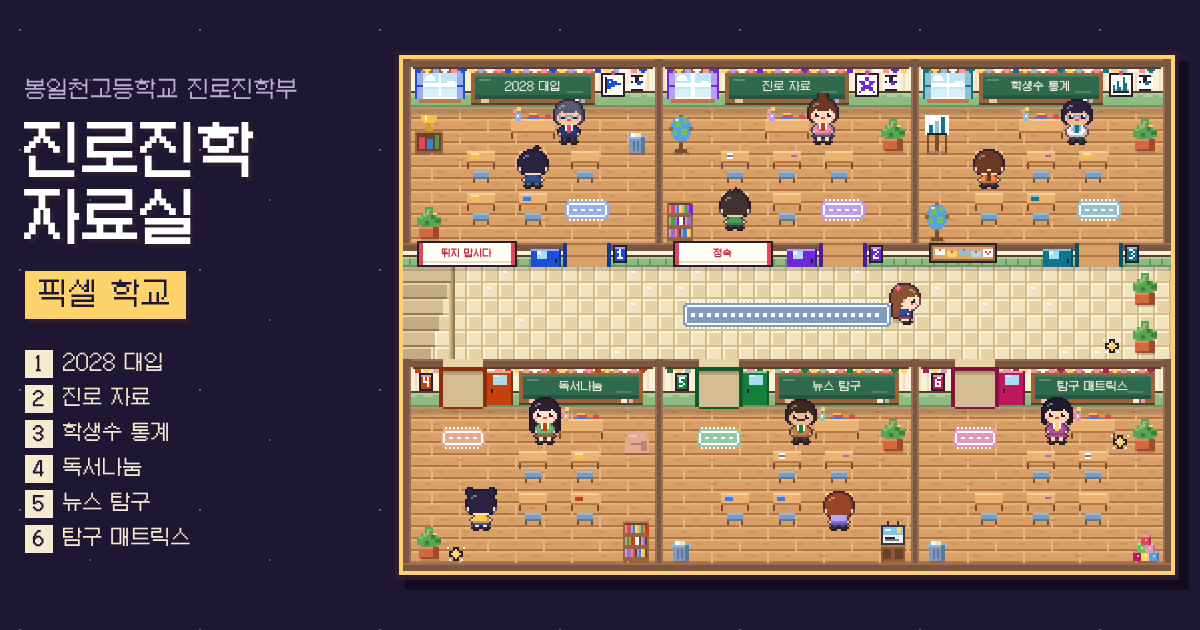
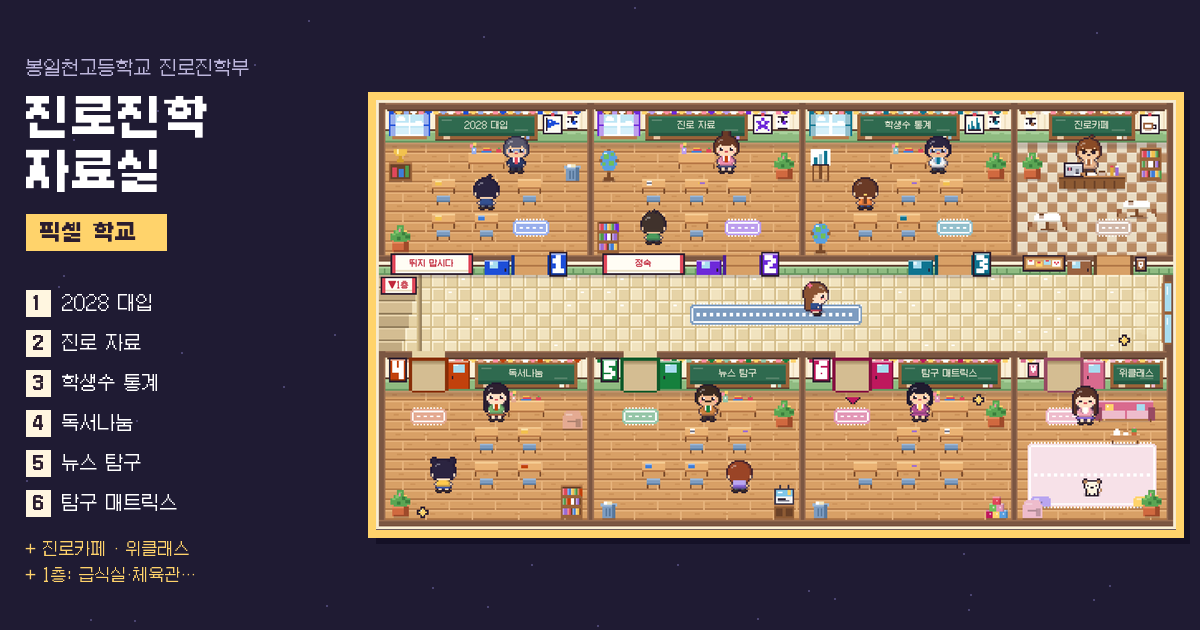
레슬링부 남학생·레슬링복, 2층 저녁은 선생님만·교실 불 켜기, 파비콘(쿠리만쥬 쌤)·미리보기 그림 갱신
Claude-Session: https://claude.ai/code/session_01LjZeYkiLHLptRRiDhoCxHw

diff --git a/assets/school/school.js b/assets/school/school.js
@@ -142,6 +142,8 @@
       side: [['o', 'H', 1, 6, 3, 1], ['o', 'H', 4, 7, 1, 1], ['o', 'e', 3, 7, 1, 1], ['o', 'e', 3, 9, 1, 1]] },
     mustache: { down: [['o', 'H', 5, 9, 4, 1]], side: [['o', 'H', 1, 9, 3, 1]] },
     hood: { down: [['u', 'w', 2, 11, 10, 2]], up: [['o', 'w', 3, 11, 8, 3]], side: [['u', 'w', 8, 10, 4, 3]] },
+    // 레슬링복(싱글렛): 맨팔이 드러나게
+    singlet: { down: [['o', 's', 3, 13, 1, 1], ['o', 's', 10, 13, 1, 1]], up: [['o', 's', 3, 13, 1, 1], ['o', 's', 10, 13, 1, 1]], side: [['o', 's', 5, 12, 1, 2]] },
   };
 
   const KIDS = [
@@ -407,6 +409,15 @@
   // 1층 점심시간에 급식실을 채울 다른 학생들(이름 없이 모습만). 처음 쓸 때 만든다
   let CROWD = null;
   const crowdList = () => CROWD || (CROWD = Array.from({ length: 60 }, (_, i) => Object.assign(makeMe('급식' + i * 7, i % 2 ? 'f' : 'm'), { id: 'crowd' + i, me: false })));
+  // 1층 저녁 레슬링부(남학생만): 빨강·파랑 레슬링복(싱글렛)에 흰 레슬링화
+  let WRESTLERS = null;
+  const wrestlerList = () => WRESTLERS || (WRESTLERS = Array.from({ length: 12 }, (_, i) => {
+    const m = makeMe('레슬링' + i * 13, 'm'), suit = i % 2 ? '#2f5fd0' : '#d23a3a';
+    m.id = 'wrestler' + i; m.me = false; m.look = m.look.filter((x) => x !== 'glasses').concat('singlet');
+    Object.assign(m.pal, { c: suit, w: m.pal.s, t: suit, p: suit, k: '#f4f4f8' });
+    m.pal.C = mix(suit, C.ink, 0.25);
+    return m;
+  }));
   let ME = (() => { const m = load('pixelSchoolMe', localStorage); return m && cleanName(m.name) && /^[mf]$/.test(m.g) ? makeMe(cleanName(m.name), m.g) : null; })();
 
   const SPR_W = 18, OX = 2, OY = 3;
@@ -2379,7 +2390,7 @@
       let n = 0;
       for (const r of L.rooms) for (const [k, w] of (r.wrestle || []).entries()) {
         // 레슬링부: 두 명이 마주 보고 밀고 당긴다
-        const a = crowd[(n + 2 * k) % crowd.length], c = crowd[(n + 2 * k + 1) % crowd.length];
+        const wl = wrestlerList(), a = wl[(2 * k) % wl.length], c = wl[(2 * k + 1) % wl.length];
         const t = reduceMotion ? 0 : Math.sin(clock * 4 + k * 1.7), push = Math.round(t * 1.5), dip = reduceMotion ? 0 : (Math.floor(clock * 3 + k) % 4 === 0 ? 1 : 0);
         list.push({ y: w.y, fn: () => {
           shadowAt(w.x - 6 + push, w.y, 9); shadowAt(w.x + 6 + push, w.y, 9);
@@ -2408,8 +2419,9 @@
         list.push({ y: q.y, fn: () => { shadowAt(q.x, q.y, 10); drawSprite(personSprite(x.sp, sd, 'idle', near && blinking(k + 7)), q.x, q.y + hop(k + 4)); } });
       }
       const o = r.f1 ? r.f1.npc : others[i];
-      r.npc = r.f1 ? (r.npcAway ? null : o) : lunch ? null : o || null; // 점심시간엔 다들 급식 먹으러 갔다(2층), 17시 넘으면 1층 어른은 퇴근
-      if (o && r.npcSeat && !(r.f1 && !r.npc)) {
+      // 점심시간엔 다들 급식 먹으러 갔다(2층), 17시 넘으면 2층 교실엔 선생님만 남고 1층 어른은 퇴근
+      r.npc = r.f1 ? (r.npcAway ? null : o) : lunch || isEve() ? null : o || null;
+      if (o && r.npcSeat && (r.f1 ? r.npc : !isEve())) {
         const s = r.npcSeat;
         const near = Math.hypot(P.x - s.x, P.y - s.y) < 30;
         let sd = 'up';
@@ -2449,7 +2461,16 @@
     // 시간대에 맞춘 창밖 하늘(저녁 노을, 밤하늘)
     const sky = skyNow();
     if (sky) {
-      if (sky.night) { g.fillStyle = 'rgba(16,20,60,0.3)'; g.fillRect(0, 0, L.W, L.H); }
+      // 밤에는 어둑하게. 단 2층 교실은 늘 불이 켜져 있어 복도만 어둡다
+      if (sky.night) {
+        g.fillStyle = 'rgba(16,20,60,0.3)';
+        if (L.f1) g.fillRect(0, 0, L.W, L.H);
+        else {
+          g.save(); g.beginPath(); g.rect(0, 0, L.W, L.H);
+          for (const r of L.rooms) g.rect(r.x + r.w, r.y, -r.w, r.h); // 교실은 구멍으로 빼고 칠한다
+          g.fill('evenodd'); g.restore();
+        }
+      }
       const paint = (x, y, w, h, vertical) => {
         R(x, y, w, h, sky.top);
         if (vertical) R(x + w - 1, y, 1, h, sky.low); else R(x, y + h - Math.min(4, h / 3), w, Math.min(4, h / 3), sky.low);

diff --git a/index.html b/index.html
@@ -5,9 +5,9 @@
 <meta name="viewport" content="width=device-width, initial-scale=1, viewport-fit=cover">
 <title>봉일천고 진로진학 자료실</title>
 <meta name="description" content="봉일천고등학교 진로진학부가 만든 학생용 사이트 모음: 2028 대입전형 시행계획 요약, 대입·진로 추천 자료, 경기도 고등학교 학생수 추이, 뉴스 읽고 진로 확장하기, 독서나눔 릴레이, 블룸 교과탐구활동 매트릭스. 픽셀 학교 교실에 들어가면 각 사이트가 열립니다.">
-<link rel="icon" href="/favicon.svg?v=1" type="image/svg+xml">
-<link rel="icon" href="/favicon-32.png?v=1" sizes="32x32" type="image/png">
-<link rel="apple-touch-icon" href="/apple-touch-icon.png?v=1">
+<link rel="icon" href="/favicon.svg?v=2" type="image/svg+xml">
+<link rel="icon" href="/favicon-32.png?v=2" sizes="32x32" type="image/png">
+<link rel="apple-touch-icon" href="/apple-touch-icon.png?v=2">
 <link rel="canonical" href="https://2023swhs3rd-a11y.github.io/">
 <meta property="og:type" content="website">
 <meta property="og:title" content="봉일천고 진로진학 자료실">
@@ -15,23 +15,23 @@
 <meta property="og:url" content="https://2023swhs3rd-a11y.github.io/">
 <meta property="og:site_name" content="봉일천고 진로진학부">
 <meta property="og:locale" content="ko_KR">
-<meta property="og:image" content="https://2023swhs3rd-a11y.github.io/og.png?v=1">
+<meta property="og:image" content="https://2023swhs3rd-a11y.github.io/og.png?v=2">
 <meta property="og:image:type" content="image/png">
 <meta property="og:image:width" content="1200">
 <meta property="og:image:height" content="630">
-<meta property="og:image:alt" content="픽셀 학교 복도와 교실 여섯 칸: 2028 대입, 진로 자료, 학생수 통계, 독서나눔, 뉴스 탐구, 탐구 매트릭스">
+<meta property="og:image:alt" content="픽셀 학교 복도와 교실 여섯 칸(2028 대입, 진로 자료, 학생수 통계, 독서나눔, 뉴스 탐구, 탐구 매트릭스), 진로카페와 위클래스">
 <meta name="twitter:card" content="summary_large_image">
 <meta name="twitter:title" content="봉일천고 진로진학 자료실">
 <meta name="twitter:description" content="픽셀 학교 교실에 들어가면 진로진학부가 만든 사이트 여섯 곳이 열립니다.">
-<meta name="twitter:image" content="https://2023swhs3rd-a11y.github.io/og.png?v=1">
+<meta name="twitter:image" content="https://2023swhs3rd-a11y.github.io/og.png?v=2">
 <script>
   // 예전 주소(루트 + #대학 등)로 들어온 링크는 그대로 2028 대시보드로 보낸다
   if (location.hash.length > 1) location.replace('/2028plan/' + location.hash);
 </script>
 <!-- 이 페이지가 불러올 수 있는 곳을 같은 주소와 게시판 메시지(구글 Apps Script)로만 묶어 둔다 -->
 <meta http-equiv="Content-Security-Policy" content="default-src 'self'; script-src 'self' 'unsafe-inline'; style-src 'self' 'unsafe-inline'; img-src 'self' data:; font-src 'self'; media-src 'self' data:; connect-src 'self' https://script.google.com https://script.googleusercontent.com; form-action 'none'; base-uri 'none'; object-src 'none'">
-<link rel="preload" href="/assets/school/fonts/galmuri11-subset.woff2?v=31" as="font" type="font/woff2" crossorigin>
-<link rel="stylesheet" href="/assets/school/school.css?v=31">
+<link rel="preload" href="/assets/school/fonts/galmuri11-subset.woff2?v=32" as="font" type="font/woff2" crossorigin>
+<link rel="stylesheet" href="/assets/school/school.css?v=32">
 </head>
 <body>
 <div class="page">
@@ -220,6 +220,6 @@
     } catch (e) { /* 날짜 없이 둔다 */ }
   });
 </script>
-<script src="/assets/school/school.js?v=31"></script>
+<script src="/assets/school/school.js?v=32"></script>
 </body>
 </html>

diff --git a/jinhak/index.html b/jinhak/index.html
@@ -5,9 +5,9 @@
 <meta name="viewport" content="width=device-width, initial-scale=1">
 <title>대입·진로 추천 자료</title>
 <meta name="description" content="봉일천고 진로진학부가 고른 대입·진로 웹사이트와 자료를 종류별로 모으고, 무엇을 담았는지와 언제 읽으면 좋은지 해설을 붙였습니다.">
-<link rel="icon" href="/favicon.svg?v=1" type="image/svg+xml">
-<link rel="icon" href="/favicon-32.png?v=1" sizes="32x32" type="image/png">
-<link rel="apple-touch-icon" href="/apple-touch-icon.png?v=1">
+<link rel="icon" href="/favicon.svg?v=2" type="image/svg+xml">
+<link rel="icon" href="/favicon-32.png?v=2" sizes="32x32" type="image/png">
+<link rel="apple-touch-icon" href="/apple-touch-icon.png?v=2">
 <link rel="canonical" href="https://2023swhs3rd-a11y.github.io/jinhak/">
 <meta property="og:type" content="website">
 <meta property="og:title" content="봉일천고 대입·진로 추천 자료">

diff --git a/404.html b/404.html
@@ -5,8 +5,8 @@
 <meta name="viewport" content="width=device-width, initial-scale=1">
 <title>페이지를 찾을 수 없습니다 · 봉일천고 진로진학부</title>
 <meta name="robots" content="noindex">
-<link rel="icon" href="/favicon.svg?v=1" type="image/svg+xml">
-<link rel="icon" href="/favicon-32.png?v=1" sizes="32x32" type="image/png">
+<link rel="icon" href="/favicon.svg?v=2" type="image/svg+xml">
+<link rel="icon" href="/favicon-32.png?v=2" sizes="32x32" type="image/png">
 <link rel="stylesheet" href="/assets/site.css?v=1">
 <style>
   /* GitHub Pages가 없는 주소에 보여 주는 페이지. 다른 폴더에서도 열리므로 주소는 모두 / 로 시작한다 */

diff --git a/assets/school/school.css b/assets/school/school.css
@@ -2,7 +2,7 @@
    게임 그림은 school.js가 캔버스에 직접 그린다. */
 @font-face {
   font-family: "Galmuri11";
-  src: url("fonts/galmuri11-subset.woff2?v=31") format("woff2");
+  src: url("fonts/galmuri11-subset.woff2?v=32") format("woff2");
   font-display: swap;
 }
 /* 급식 메뉴·학사일정처럼 날마다 바뀌는 글자용: 자주 쓰는 한글 2,350자(필요할 때만 받는다) */
